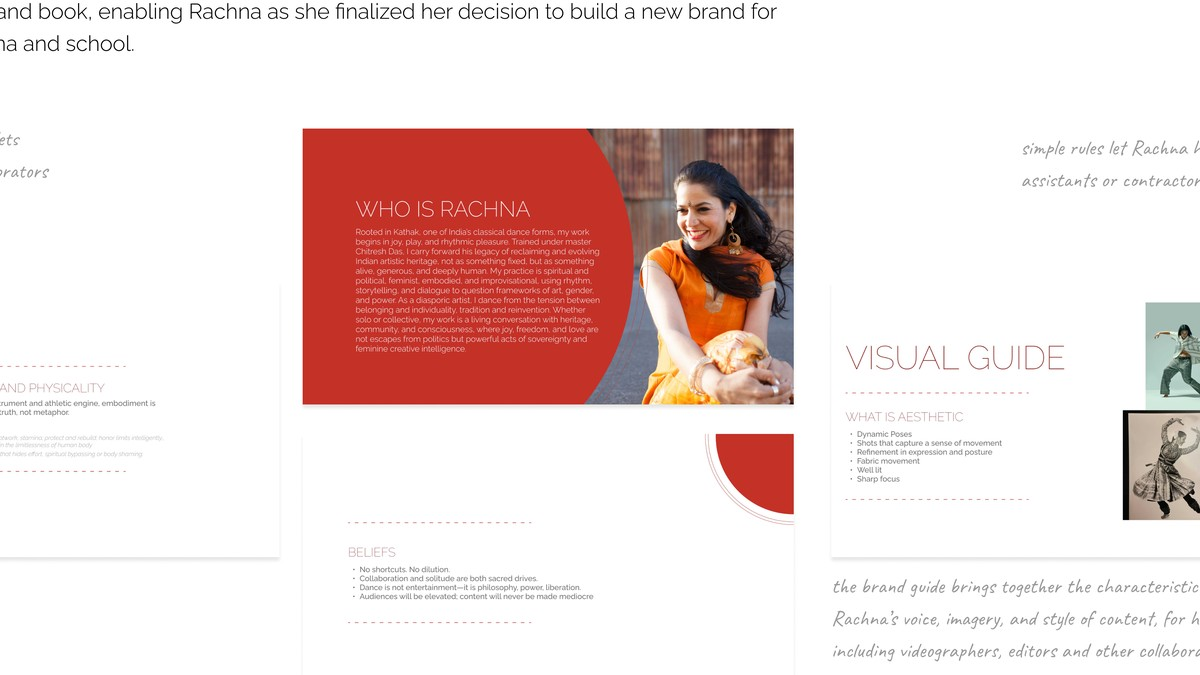
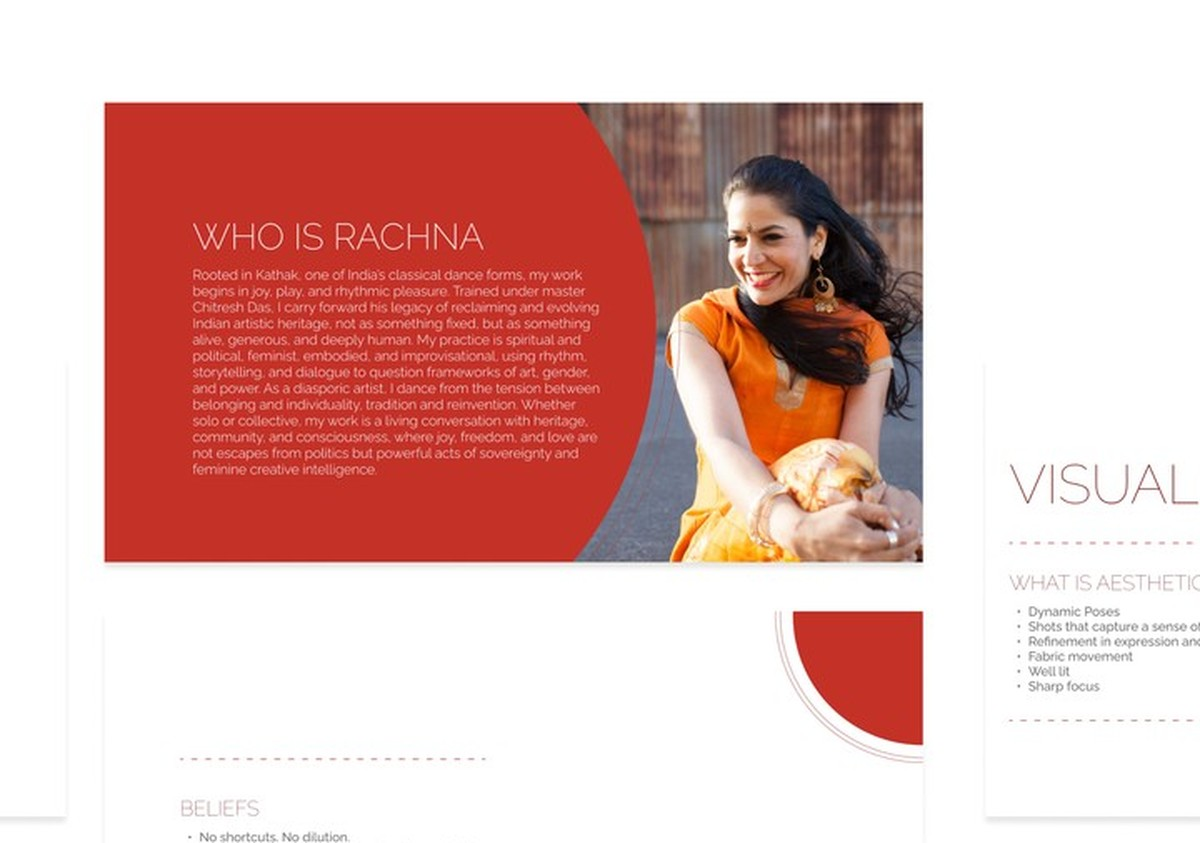
Crop Rachna Nivas image tighter around her photo
Zoomed in to center on Rachna's portrait and the red brand
elements. Removed object-position override since the image
itself is now well-framed.

diff --git a/work/index.html b/work/index.html
@@ -356,7 +356,7 @@
                 <!-- Rachna Nivas -->
                 <a href="rachna-nivas.html" class="case-card fade-in">
                     <div class="case-card-image">
-                        <img src="../images/work/rachna-nivas.jpg" alt="Rachna Nivas digital identity" loading="lazy" style="object-position: 60% center;">
+                        <img src="../images/work/rachna-nivas.jpg" alt="Rachna Nivas digital identity" loading="lazy">
                     </div>
                     <div class="case-card-body">
                         <div class="case-card-tags">
